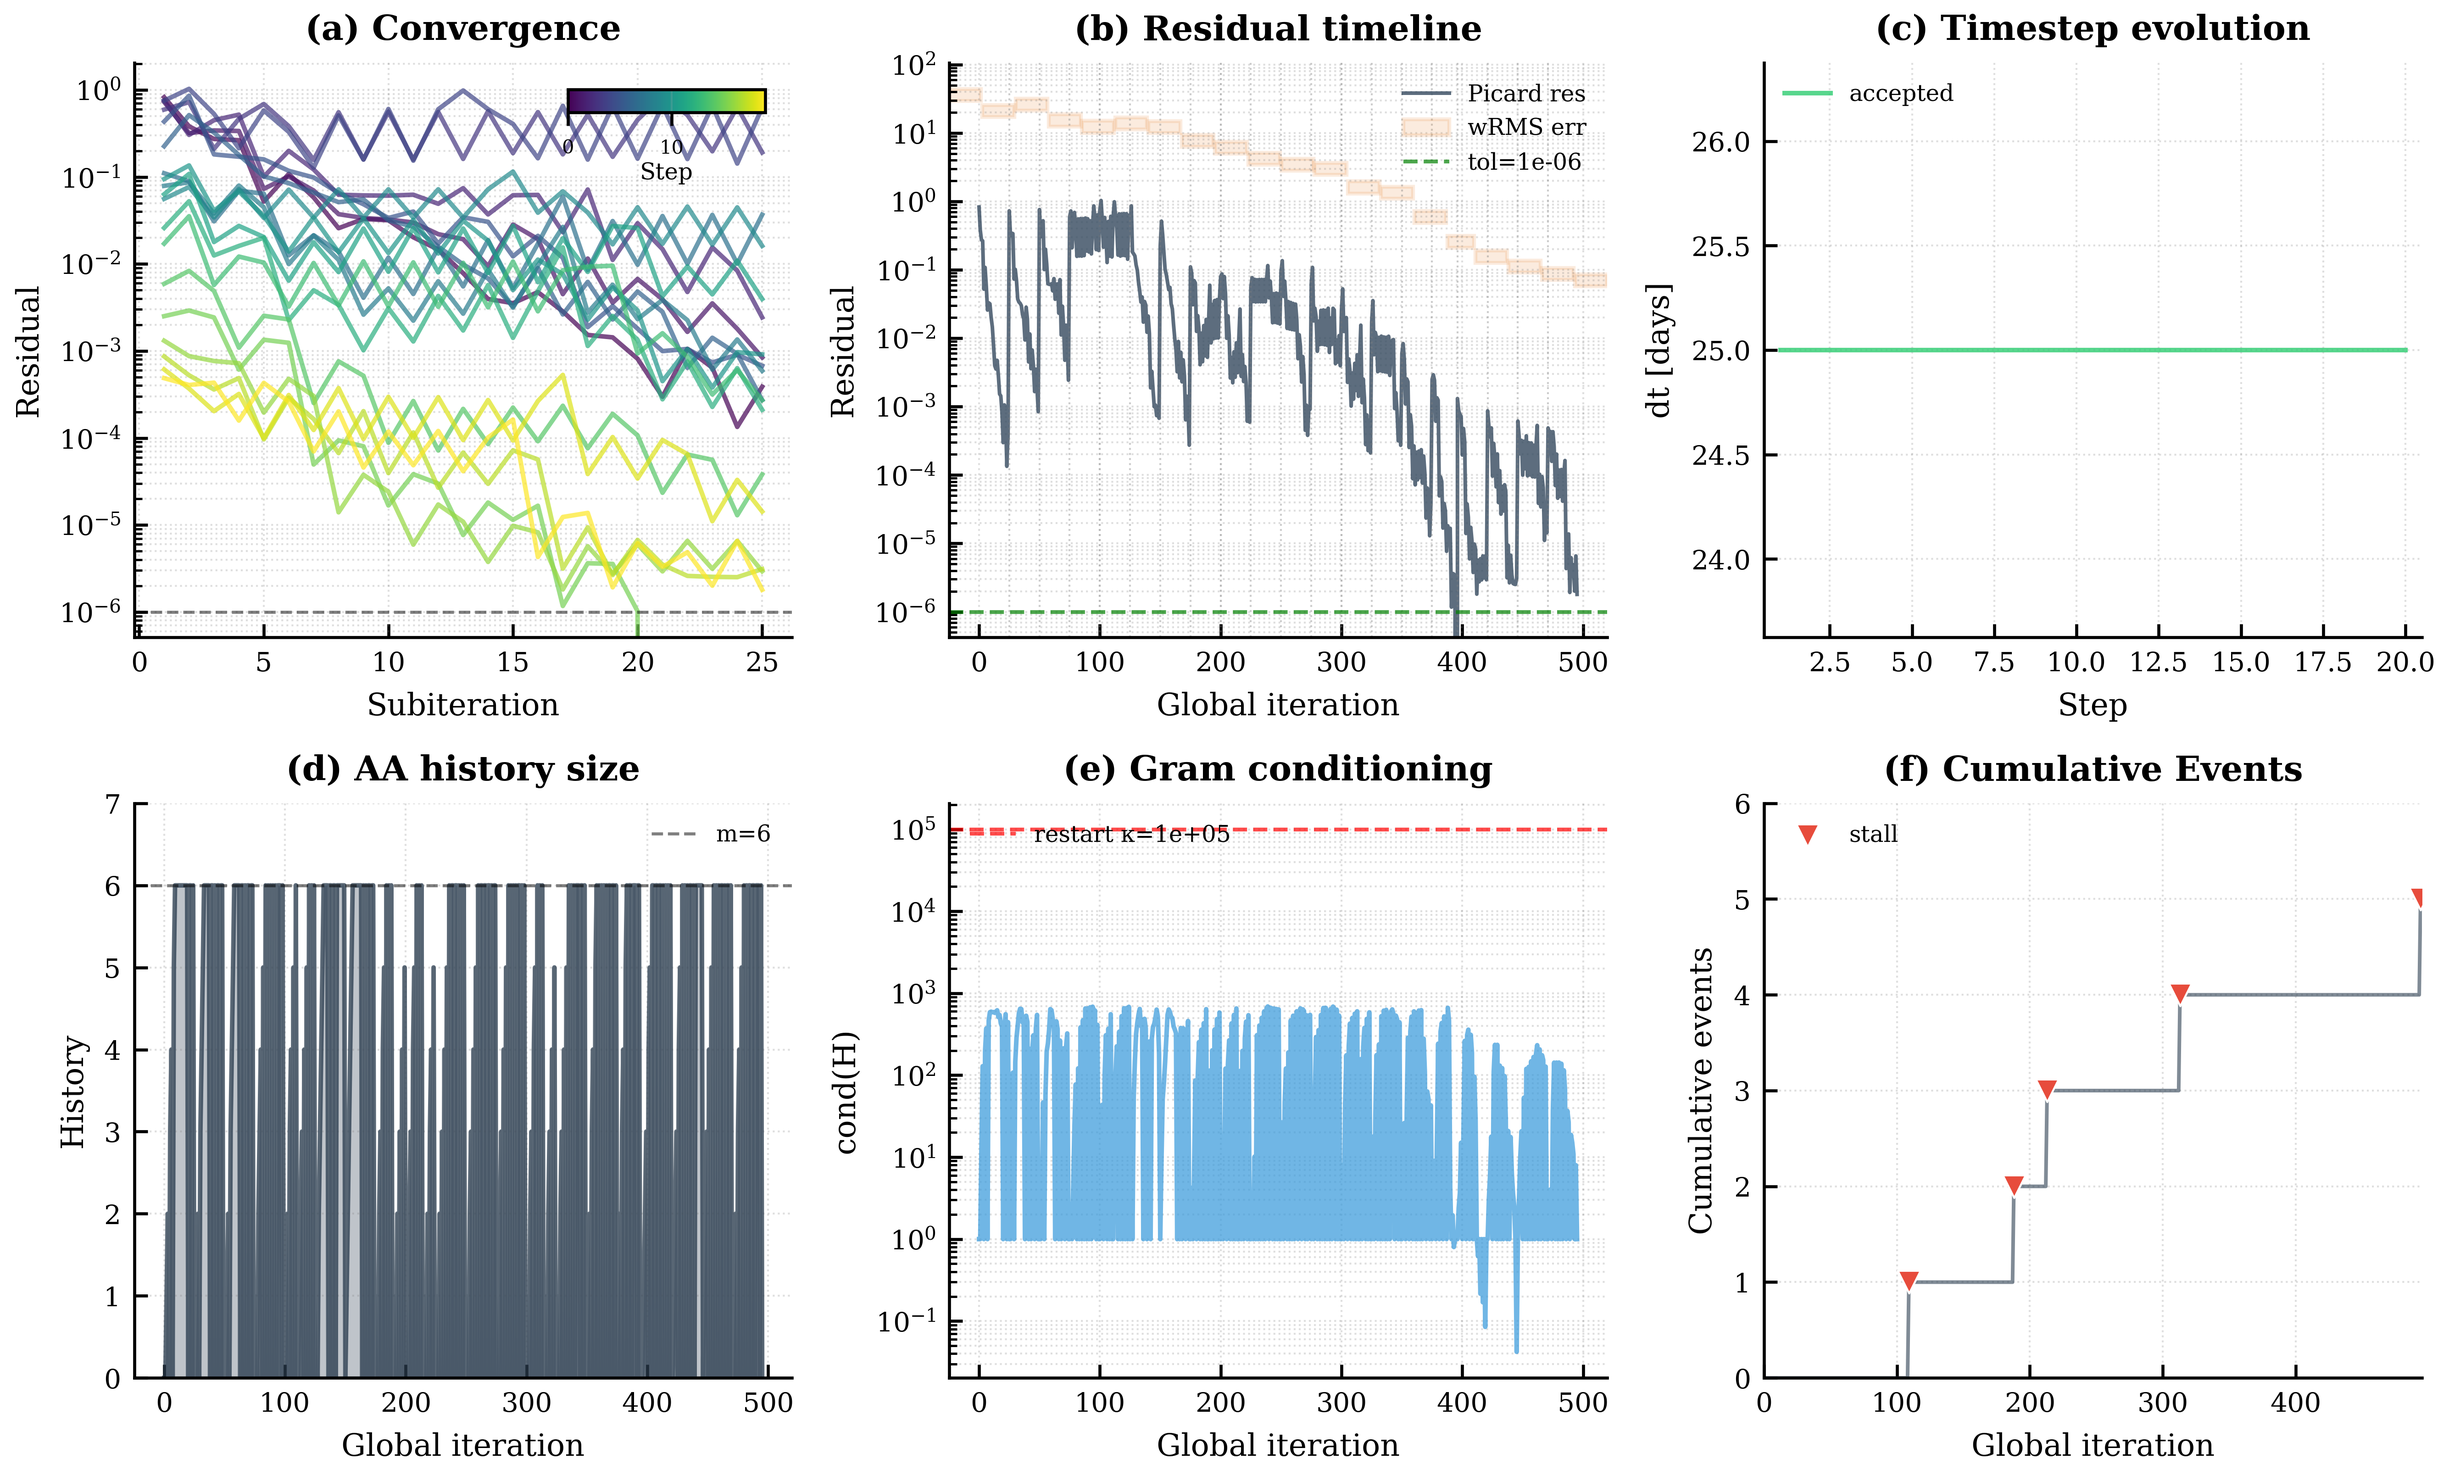
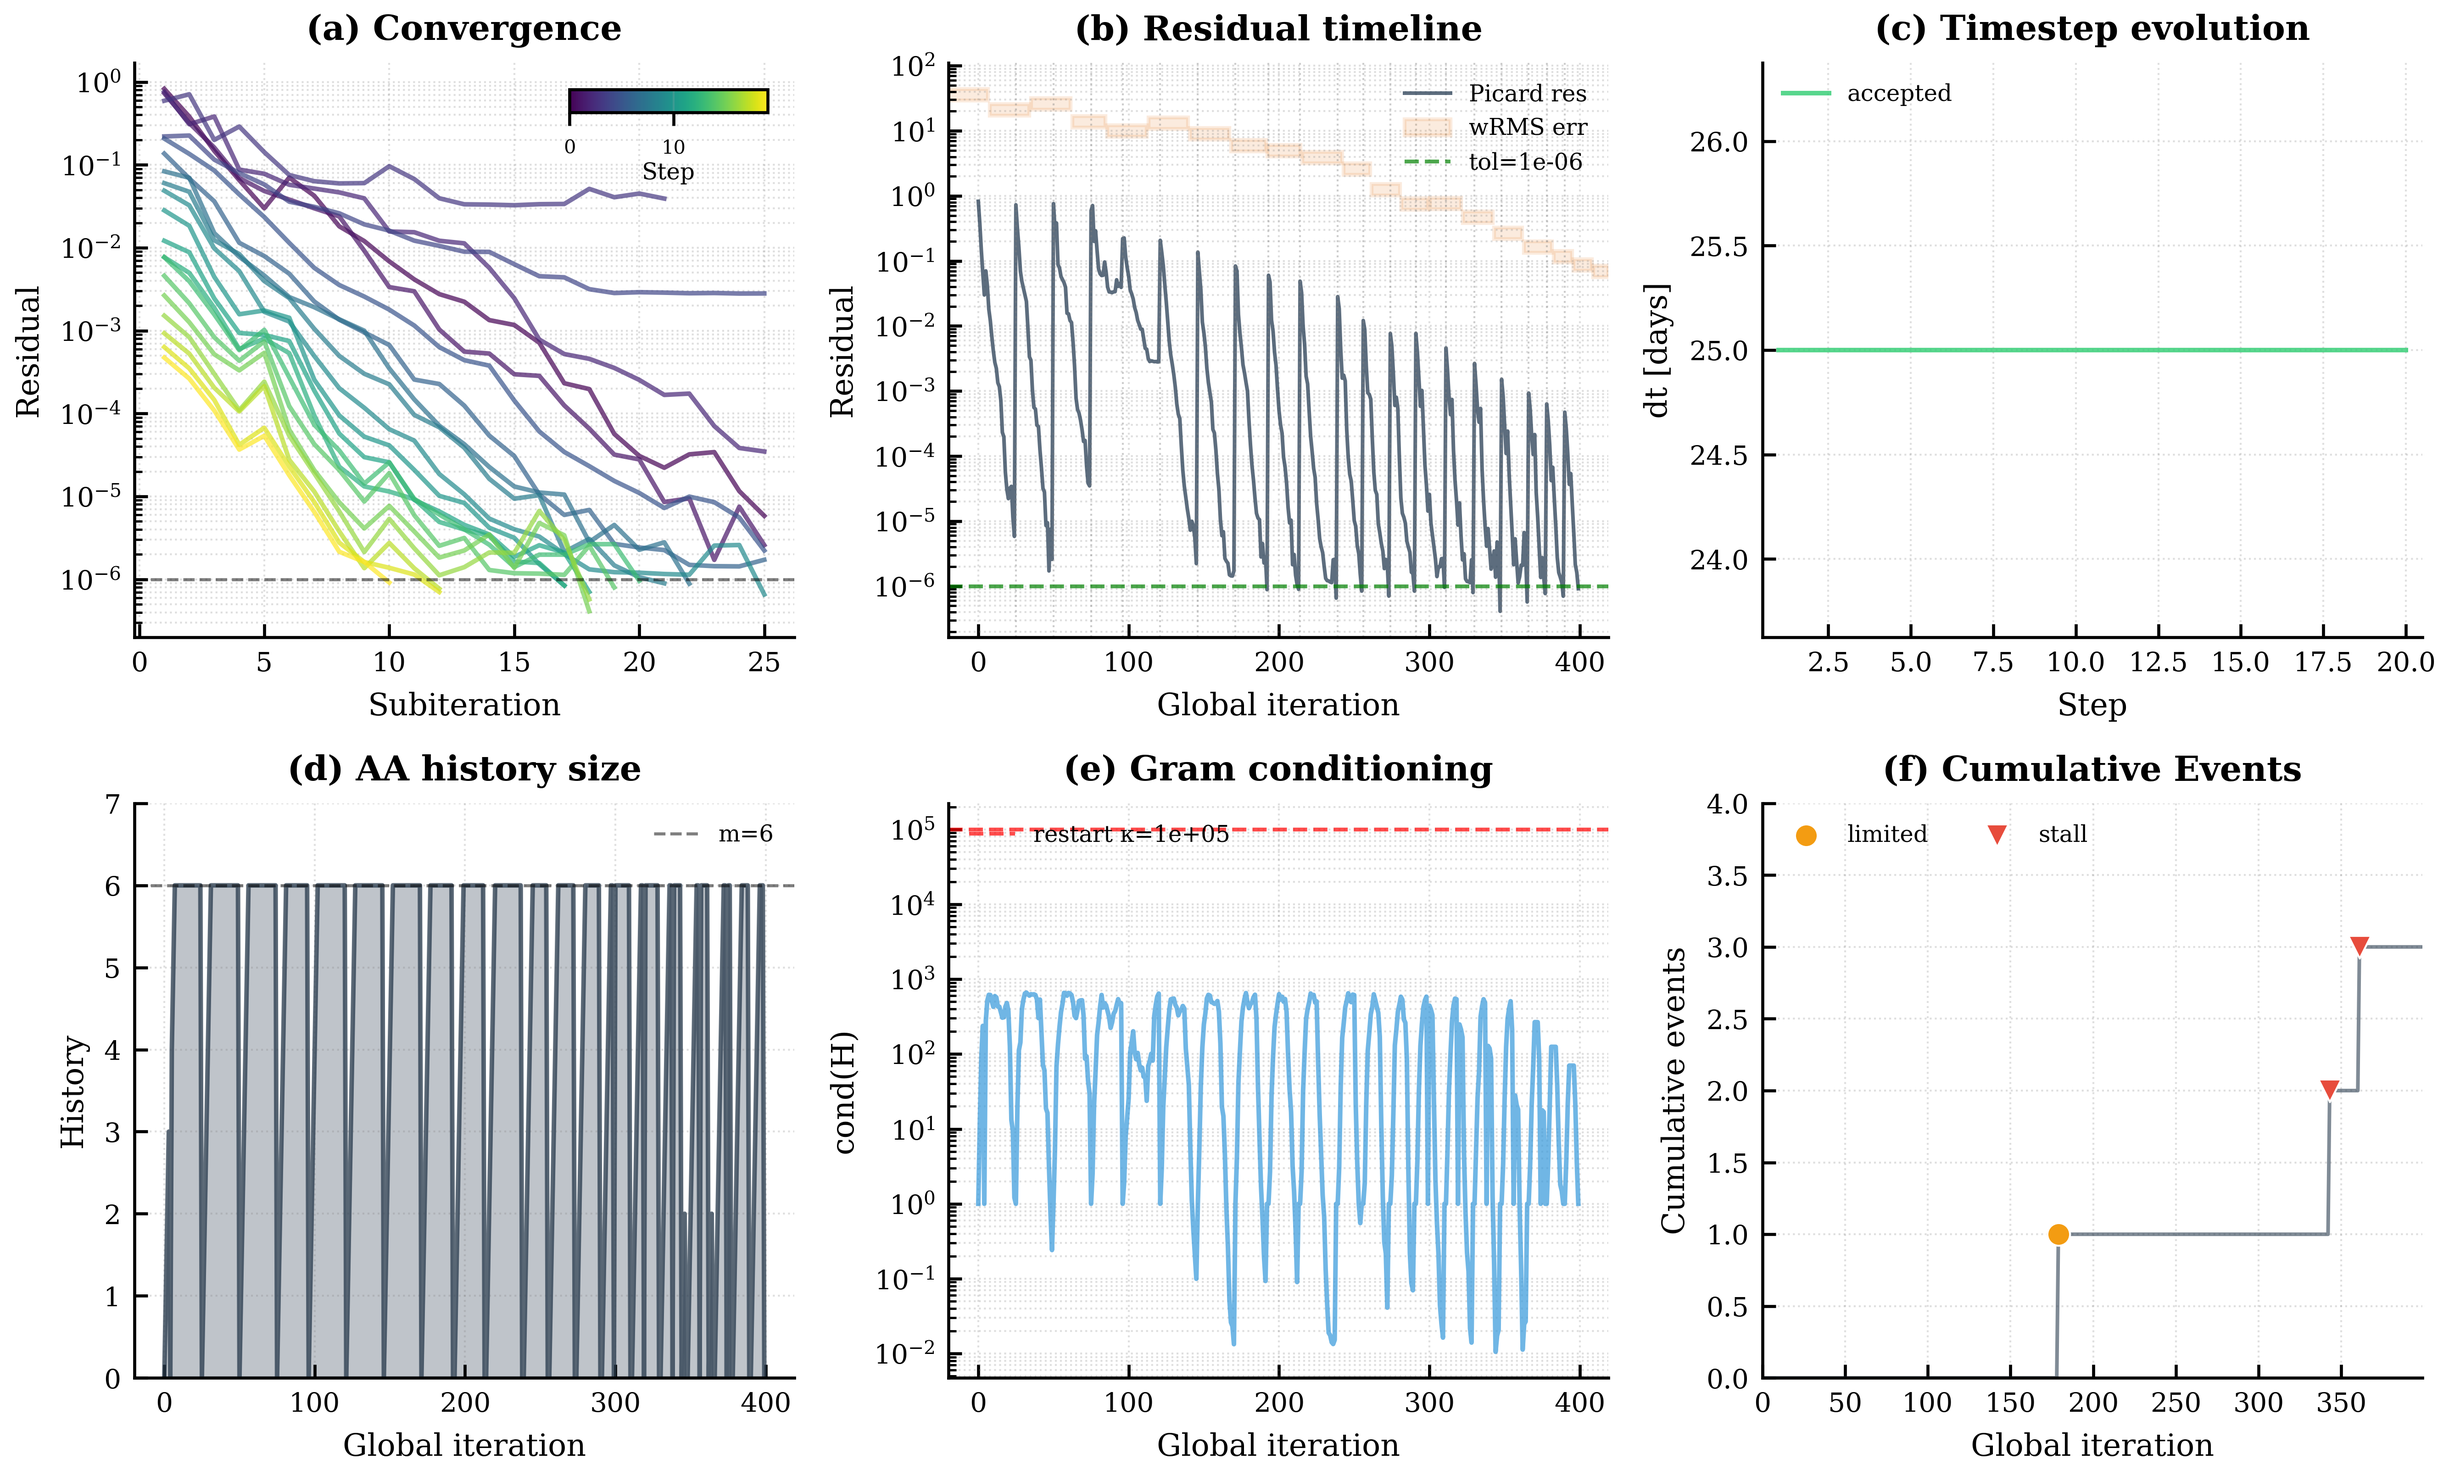
Add rho_anderson_patience parameter and update fixed-point solver logic for contractive iterations

diff --git a/simulation/fixedsolver.py b/simulation/fixedsolver.py
@@ -227,6 +227,9 @@ class FixedPointSolver:
         if self.anderson is not None:
             self.anderson.reset()
 
+        # Counter for consecutive contractive iterations (ρ < threshold)
+        contractive_streak = 0
+
         if progress is not None and task_id is not None:
             progress.reset(task_id, total=max_subiters)
             progress.start_task(task_id)
@@ -258,10 +261,16 @@ class FixedPointSolver:
                 if prev_res > self._TINY:
                     contraction = picard_res / prev_res
 
-            # Use Picard when strongly contractive (ρ < threshold), else Anderson
+            # Track consecutive contractive iterations
+            if contraction is not None and contraction < self.cfg.solver.rho_anderson_off:
+                contractive_streak += 1
+            else:
+                contractive_streak = 0
+
+            # Use Picard only after N consecutive contractive iterations
             use_anderson = (
                 self.anderson is not None
-                and (contraction is None or contraction >= self.cfg.solver.rho_anderson_off)
+                and contractive_streak < self.cfg.solver.rho_anderson_patience
             )
 
             # Skip acceleration if already converged
@@ -345,7 +354,7 @@ class FixedPointSolver:
                     if stall_count >= stall_patience:
                         stop_reason = "no_progress"
                         self.subiter_metrics[-1]["fp_stop_reason"] = stop_reason
-                        self.logger.warning(
+                        self.logger.file_only(
                             f"Early abort fixed-point at itr={itr}: no progress "
                             f"(rel_drop={rel_drop:.2%} < {stall_min_drop:.2%} "
                             f"for {stall_patience} windows of {stall_window} iters)."

diff --git a/simulation/logger.py b/simulation/logger.py
@@ -70,6 +70,13 @@ class Logger:
     def error(self, msg: Union[str, Callable[[], str]], *args: Any) -> None:
         self.log(Level.ERROR, msg, *args)
 
+    def file_only(self, msg: Union[str, Callable[[], str]], *args: Any, lvl: Level = Level.WARNING) -> None:
+        """Log a message to file only (no console output), rank 0 only."""
+        if self.comm.rank == 0 and self.log_file and lvl >= self.file_level:
+            formatted = self._format(msg, args)
+            with open(self.log_file, "a", encoding="utf-8") as f:
+                f.write(formatted + "\n")
+
 
 def get_logger(comm: MPI.Comm, name: str = "", log_file: str | None = None) -> Logger:
     """Create an MPI-safe logger with default levels (console: WARNING, file: DEBUG)."""

diff --git a/simulation/params.py b/simulation/params.py
@@ -249,6 +249,9 @@ class SolverParams:
     # (Anderson is unnecessary when Picard converges fast)
     rho_anderson_off: float = 0.5
 
+    # Number of consecutive contractive iterations before switching to Picard
+    rho_anderson_patience: int = 2
+
 
     def validate(self) -> None:
         """Validate solver parameter constraints."""
@@ -274,6 +277,8 @@ class SolverParams:
             raise ValueError("outer_stall_patience must be >= 1.")
         if not (0.0 < self.rho_anderson_off < 1.0):
             raise ValueError("rho_anderson_off must be in (0, 1).")
+        if self.rho_anderson_patience < 1:
+            raise ValueError("rho_anderson_patience must be >= 1.")
 
 
 @dataclass
